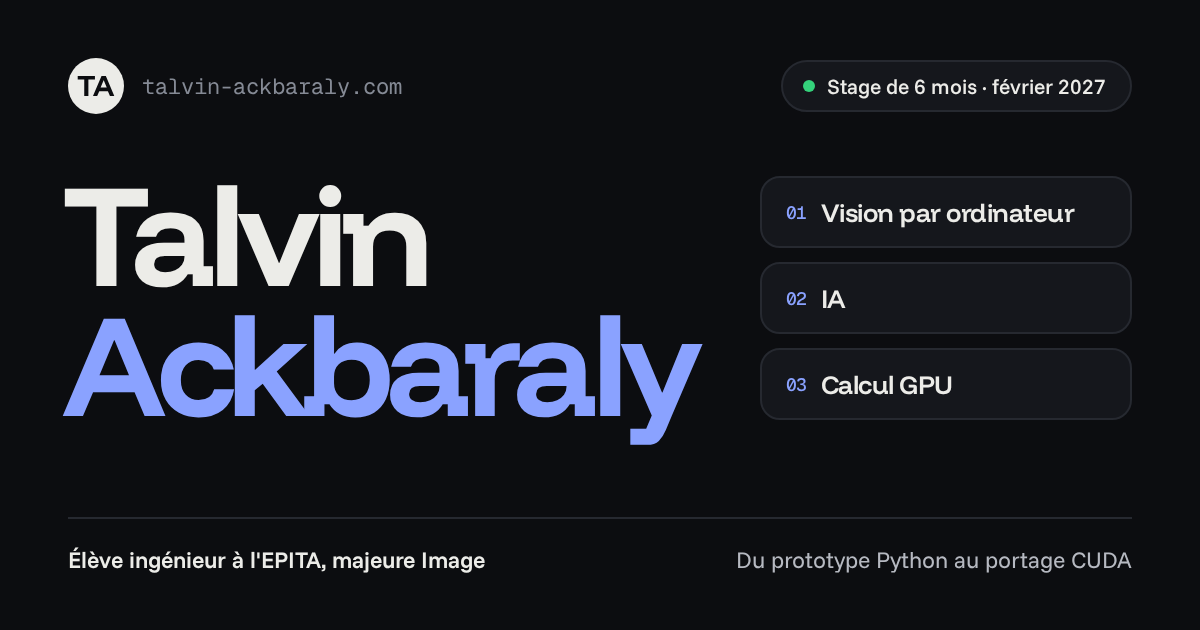
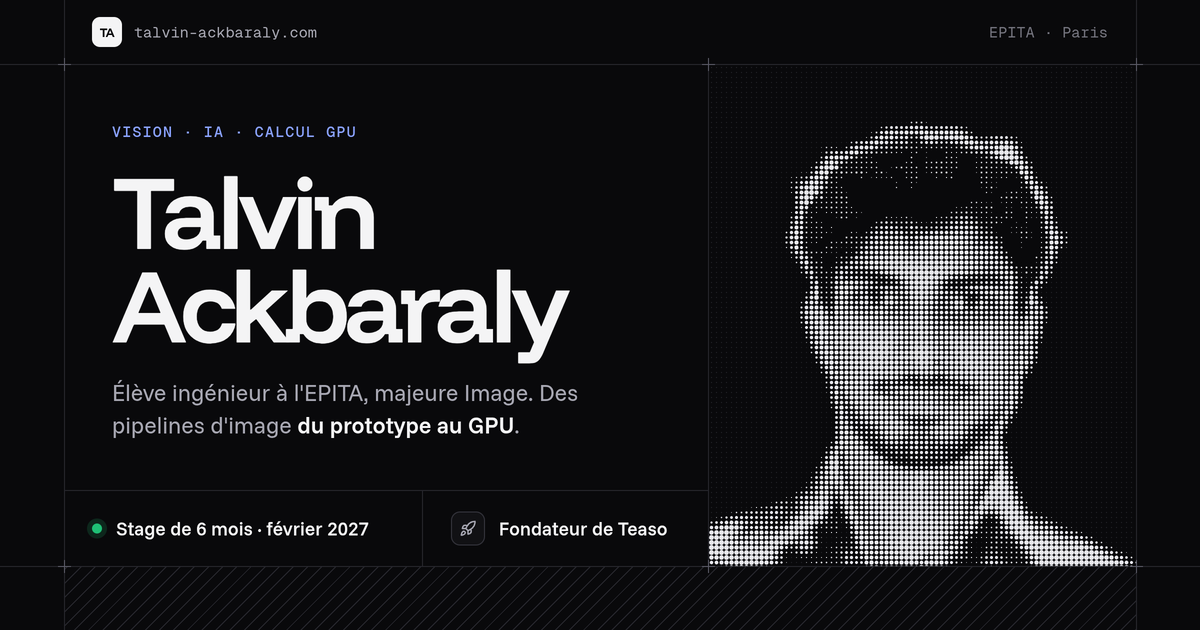
feat(seo): share images drawn on the site's plate, with a dot-screen portrait
- New og-image.png (FR) and og-image-en.png (EN), 1200×630: the plate of
  the site (rails, rules, crosses, hatched band) around the name, the
  tagline and two ruled cells (internship, Teaso); on the right the
  portrait as a dot screen of its light, its grey backdrop removed
- Generator kept in scripts/og/ (og.html, photo-src.jpg), left out of the
  build; the command to render both images is in the README
- Share image alt text mentions Teaso

diff --git a/scripts/og/og.html b/scripts/og/og.html
@@ -1,0 +1,164 @@
+<!doctype html>
+<!--
+  Share images of the portfolio (1200×630), FR (?lang=fr) and EN (?lang=en).
+  The plate of the site — rails, rules, crosses, a hatched band — around the
+  name, and on the right the portrait as a dot screen of its light.
+  Rendered with headless Chrome: see README → Conventions médias.
+-->
+<html lang="fr">
+<head>
+<meta charset="utf-8">
+<style>
+  @font-face { font-family: "Funnel Display"; src: url("../../assets/fonts/funnel-display-latin.woff2") format("woff2"); font-weight: 300 800; font-display: block; }
+  @font-face { font-family: "Funnel Sans"; src: url("../../assets/fonts/funnel-sans-latin.woff2") format("woff2"); font-weight: 300 800; font-display: block; }
+  @font-face { font-family: "Geist Mono"; src: url("../../assets/fonts/geist-mono-latin.woff2") format("woff2"); font-weight: 400 500; font-display: block; }
+
+  :root {
+    --bg: #09090b; --surface: #111114; --ink: #f4f4f5; --ink-2: #a8a8b3; --ink-3: #75757f;
+    --rule: #26262c; --cross: #5a5a66; --accent: #8aa2ff;
+    /* The plate: rails at x = 64 and 1136, rules at y = 64 and 566, and
+       the portrait column from x = 708. */
+    --l: 64px; --r: 1136px; --t: 64px; --b: 566px; --split: 708px;
+  }
+  * { margin: 0; padding: 0; box-sizing: border-box; }
+  html, body { width: 1200px; height: 630px; overflow: hidden; background: var(--bg); color: var(--ink); }
+
+  .line { position: absolute; background: var(--rule); }
+  .v { top: 0; bottom: 0; width: 1px; }
+  .h { left: 0; right: 0; height: 1px; }
+  .cross { position: absolute; width: 13px; height: 13px; transform: translate(-6px, -6px); }
+  .cross::before, .cross::after { content: ""; position: absolute; background: var(--cross); }
+  .cross::before { left: 6px; top: 0; width: 1px; height: 13px; }
+  .cross::after { top: 6px; left: 0; height: 1px; width: 13px; }
+
+  /* The hatched band under the plate, as between the site's sections. */
+  .hatch { position: absolute; left: var(--l); right: calc(1200px - var(--r)); top: calc(var(--b) + 1px); bottom: 0;
+    background: repeating-linear-gradient(-45deg, var(--rule) 0 1px, transparent 1px 10px); }
+
+  .top { position: absolute; left: calc(var(--l) + 28px); right: calc(1200px - var(--r) + 28px); top: 0; height: var(--t);
+    display: flex; align-items: center; justify-content: space-between;
+    font-family: "Geist Mono"; font-size: 15px; color: var(--ink-3); letter-spacing: .01em; }
+  .brand { display: flex; align-items: center; gap: 12px; color: var(--ink-2); }
+  .mark { display: grid; place-items: center; width: 30px; height: 30px; border-radius: 8px; background: var(--ink); color: var(--bg);
+    font-family: "Funnel Display"; font-weight: 700; font-size: 12.5px; letter-spacing: -.03em; }
+
+  .text { position: absolute; left: calc(var(--l) + 48px); width: calc(var(--split) - var(--l) - 88px); top: calc(var(--t) + 58px); }
+  .kicker { font-family: "Geist Mono"; font-size: 15px; font-weight: 500; letter-spacing: .08em; text-transform: uppercase; color: var(--accent); }
+  h1 { margin-top: 22px; font-family: "Funnel Display"; font-weight: 650; font-size: 104px; line-height: .9; letter-spacing: -.055em; }
+  .lede { margin-top: 26px; font-family: "Funnel Sans"; font-size: 23px; line-height: 1.4; color: var(--ink-2); max-width: 520px; }
+  .lede b { font-weight: 600; color: var(--ink); }
+
+  /* A ruled row of cells along the bottom rule of the plate. */
+  .cells { position: absolute; left: var(--l); width: calc(var(--split) - var(--l)); top: calc(var(--b) - 76px); height: 76px;
+    display: grid; grid-template-columns: 1.25fr 1fr; border-top: 1px solid var(--rule); }
+  .cell { display: flex; align-items: center; gap: 14px; padding: 0 28px; font-family: "Funnel Sans"; font-size: 19px; font-weight: 550; }
+  .cell + .cell { border-left: 1px solid var(--rule); }
+  .dot { width: 10px; height: 10px; border-radius: 50%; background: #1fbf75; box-shadow: 0 0 0 5px rgb(31 191 117 / .16); }
+  .icon { display: grid; place-items: center; width: 34px; height: 34px; border-radius: 9px; background: var(--surface); box-shadow: inset 0 0 0 1px #34343c; color: var(--ink-2); }
+  .icon svg { width: 17px; height: 17px; }
+
+  canvas { position: absolute; left: calc(var(--split) + 1px); top: calc(var(--t) + 1px); width: calc(var(--r) - var(--split) - 1px); height: calc(var(--b) - var(--t) - 1px); }
+</style>
+</head>
+<body>
+  <canvas id="c"></canvas>
+  <div class="hatch"></div>
+
+  <div class="line v" style="left: var(--l)"></div>
+  <div class="line v" style="left: var(--r)"></div>
+  <div class="line v" style="left: var(--split); top: var(--t); bottom: calc(630px - var(--b))"></div>
+  <div class="line h" style="top: var(--t)"></div>
+  <div class="line h" style="top: var(--b)"></div>
+  <div class="cross" style="left: var(--l); top: var(--t)"></div>
+  <div class="cross" style="left: var(--r); top: var(--t)"></div>
+  <div class="cross" style="left: var(--l); top: var(--b)"></div>
+  <div class="cross" style="left: var(--r); top: var(--b)"></div>
+  <div class="cross" style="left: var(--split); top: var(--t)"></div>
+  <div class="cross" style="left: var(--split); top: var(--b)"></div>
+
+  <header class="top">
+    <span class="brand"><span class="mark">TA</span>talvin-ackbaraly.com</span>
+    <span id="where"></span>
+  </header>
+
+  <div class="text">
+    <p class="kicker" id="kicker"></p>
+    <h1>Talvin<br>Ackbaraly</h1>
+    <p class="lede" id="lede"></p>
+  </div>
+
+  <div class="cells">
+    <div class="cell"><span class="dot"></span><span id="status"></span></div>
+    <div class="cell"><span class="icon"><svg viewBox="0 0 24 24" fill="none" stroke="currentColor" stroke-width="2" stroke-linecap="round" stroke-linejoin="round"><path d="M4.5 16.5c-1.5 1.26-2 5-2 5s3.74-.5 5-2c.71-.84.7-2.13-.09-2.91a2.18 2.18 0 0 0-2.91-.09z"/><path d="m12 15-3-3a22 22 0 0 1 2-3.95A12.88 12.88 0 0 1 22 2c0 2.72-.78 7.5-6 11a22.35 22.35 0 0 1-4 2z"/><path d="M9 12H4s.55-3.03 2-4c1.62-1.08 5 0 5 0"/><path d="M12 15v5s3.03-.55 4-2c1.08-1.62 0-5 0-5"/></svg></span><span id="teaso"></span></div>
+  </div>
+
+<script>
+const L = new URLSearchParams(location.search).get("lang") || "fr";
+const copy = {
+  fr: { where: "EPITA · Paris", kicker: "Vision · IA · Calcul GPU", lede: "Élève ingénieur à l'EPITA, majeure Image. Des pipelines d'image <b>du prototype au GPU</b>.", status: "Stage de 6 mois · février 2027", teaso: "Fondateur de Teaso" },
+  en: { where: "EPITA · Paris", kicker: "Vision · AI · GPU computing", lede: "Engineering student at EPITA, Image major. Image pipelines <b>from prototype to GPU</b>.", status: "6-month internship · Feb. 2027", teaso: "Founder of Teaso" },
+}[L];
+document.documentElement.lang = L;
+for (const k of ["where", "kicker", "status", "teaso"]) document.getElementById(k).textContent = copy[k];
+document.getElementById("lede").innerHTML = copy.lede;
+
+// ─── The portrait, as a vision pipeline sees it ───
+const canvas = document.getElementById("c");
+const W = canvas.clientWidth, H = canvas.clientHeight, dpr = 2;
+canvas.width = W * dpr; canvas.height = H * dpr;
+const ctx = canvas.getContext("2d");
+ctx.scale(dpr, dpr);
+
+const img = new Image();
+img.src = "photo-src.jpg";
+img.onload = () => {
+  const S = 5;                      // pitch of the screen, CSS px
+  const cols = Math.ceil(W / S), rows = Math.ceil(H / S);
+
+  // The photo cropped to the column: head and shoulders.
+  const crop = { x: 0.14, y: 0.03, w: 0.72 };          // fractions of the photo
+  crop.h = crop.w * (H / W) * (img.width / img.height);
+  const read = (w, h, blur) => {
+    const c = document.createElement("canvas");
+    c.width = w; c.height = h;
+    const g = c.getContext("2d", { willReadFrequently: true });
+    if (blur) g.filter = `blur(${blur}px)`;
+    g.drawImage(img, crop.x * img.width, crop.y * img.height, crop.w * img.width, crop.h * img.height, 0, 0, w, h);
+    return g.getImageData(0, 0, w, h).data;
+  };
+  const px = read(cols, rows, 0);
+
+  // The backdrop of the photo is a flat light grey: the person is whatever
+  // strays from it, softened so the outline does not stair-step.
+  const bg = [px[0], px[1], px[2]];
+  const lum = new Float32Array(cols * rows), fig = new Float32Array(cols * rows);
+  for (let i = 0; i < cols * rows; i++) {
+    const r = px[i*4], gg = px[i*4+1], b = px[i*4+2];
+    lum[i] = (0.299*r + 0.587*gg + 0.114*b) / 255;
+    const d = Math.hypot(r - bg[0], gg - bg[1], b - bg[2]);
+    fig[i] = Math.min(1, Math.max(0, (d - 10) / 22));
+  }
+  const at = (a, x, y, w = cols, h = rows) => a[Math.min(h-1, Math.max(0, y)) * w + Math.min(w-1, Math.max(0, x))];
+  const soft = new Float32Array(cols * rows);
+  for (let y = 0; y < rows; y++) for (let x = 0; x < cols; x++) {
+    let s = 0; for (let j = -1; j <= 1; j++) for (let i = -1; i <= 1; i++) s += at(fig, x+i, y+j);
+    soft[y*cols+x] = s / 9;
+  }
+
+  const dots = new Path2D(), faint = new Path2D();
+  for (let y = 0; y < rows; y++) for (let x = 0; x < cols; x++) {
+    const i = y*cols + x, cx = x*S + S/2, cy = y*S + S/2;
+    // Light becomes dots: a brighter cell, a bigger dot. Tones are stretched
+    // over the figure, so the face carries as much as the shirt.
+    const t = Math.min(1, Math.max(0, (lum[i] - 0.06) / 0.62));
+    const r = S * 0.5 * Math.sqrt(Math.pow(t, 0.85) * soft[i]);
+    if (r > 0.35) { dots.moveTo(cx + r, cy); dots.arc(cx, cy, r, 0, Math.PI * 2); }
+    else if (soft[i] < 0.05) { faint.moveTo(cx + 0.55, cy); faint.arc(cx, cy, 0.55, 0, Math.PI * 2); }
+  }
+  ctx.fillStyle = "#2a2a31"; ctx.fill(faint);
+  ctx.fillStyle = "#e9e9ee"; ctx.fill(dots);
+  document.title = "ready";
+};
+</script>
+</body>
+</html>

diff --git a/.eleventy.js b/.eleventy.js
@@ -26,6 +26,8 @@ module.exports = function (eleventyConfig) {
   eleventyConfig.addPassthroughCopy({ "assets/favicon.ico": "favicon.ico" });
 
   eleventyConfig.ignores.add("README.md");
+  // The share-image generator is a tool, not a page of the site.
+  eleventyConfig.ignores.add("scripts/**");
 
   // ─── Markdown configuration ───
   const md = markdownIt({

diff --git a/README.md b/README.md
@@ -354,7 +354,15 @@ Deux composants s'écrivent en HTML dans le Markdown, sans ligne vide
   ```
 
 - **Image Open Graph** : `assets/og-image.png` (FR) et `og-image-en.png`
-  (EN), 1200×630.
+  (EN), 1200×630. La planche du site (rails, filets, croix, bande
+  hachurée) autour du nom ; à droite, le portrait en trame de points de
+  sa lumière, l'arrière-plan gris de la photo retiré. Source :
+  `scripts/og/og.html` (textes en bas du fichier) et `photo-src.jpg`.
+  Pour les refaire (rendu au double, puis réduit) :
+
+  ```bash
+  cd scripts/og && for pair in fr:og-image en:og-image-en; do L=${pair%%:*}; N=${pair#*:}; google-chrome-stable --headless=new --use-angle=swiftshader --enable-unsafe-swiftshader --allow-file-access-from-files --hide-scrollbars --force-device-scale-factor=2 --window-size=1200,630 --virtual-time-budget=20000 --screenshot=$PWD/$L.png "file://$PWD/og.html?lang=$L" && magick $L.png -resize 1200x630 -strip ../../assets/$N.png && rm $L.png; done
+  ```
 
 ## Page freelance
 
